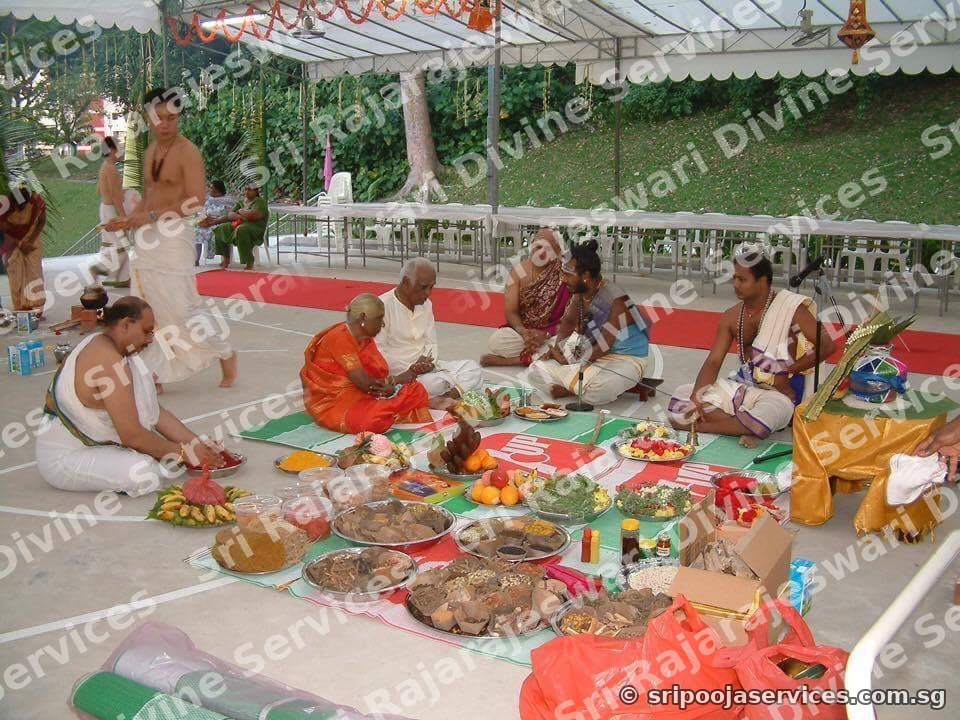
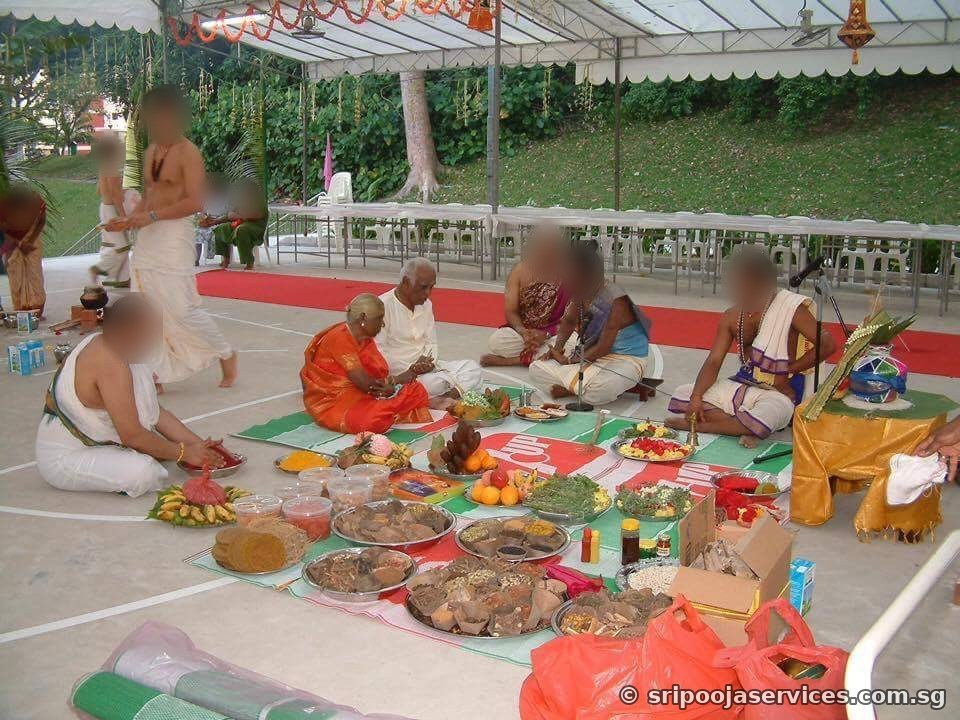
Seva: four event photos in order, faces blurred, privacy note
Claude-Session: https://claude.ai/code/session_01XfYPcg9wYB2SYewJi32MZp

diff --git a/community.htm b/community.htm
@@ -15,7 +15,7 @@
 <link rel="preconnect" href="https://fonts.googleapis.com">
 <link rel="preconnect" href="https://fonts.gstatic.com" crossorigin>
 <link href="https://fonts.googleapis.com/css2?family=Cormorant+Garamond:ital,wght@0,500;0,600;0,700;1,500;1,600&family=Tiro+Devanagari+Hindi&family=Noto+Serif+Devanagari:wght@700;900&family=Inter:wght@400;500;600;700;800&display=swap" rel="stylesheet">
-<link rel="stylesheet" href="style.css?v=152">
+<link rel="stylesheet" href="style.css?v=153">
 </head>
 <body><svg width="0" height="0" style="position:absolute;width:0;height:0;overflow:hidden" aria-hidden="true"><defs>
 <linearGradient id="sr-g" x1="0" y1="0" x2="1" y2="1"><stop offset="0" stop-color="#fff9dc"/><stop offset=".14" stop-color="#ffe17a"/><stop offset=".3" stop-color="#d79a18"/><stop offset=".42" stop-color="#8f5c06"/><stop offset=".54" stop-color="#f3c446"/><stop offset=".64" stop-color="#fff2b0"/><stop offset=".78" stop-color="#d9a024"/><stop offset=".9" stop-color="#9a6408"/><stop offset="1" stop-color="#f0c040"/></linearGradient>
@@ -164,10 +164,13 @@
 </div></section>
 <section><div class="wrap">
   <div class="community">
-        <div class="comm-grid">
-      <figure><img src="image/community_homam.jpg?v=2" alt="Community Navarathri celebration in Ang Mo Kio" width="960" height="720" loading="lazy"></figure>
-      <figure><img src="image/community_suvaasini.jpg?v=2" alt="Prayers at the community Navarathri celebration" width="540" height="720" loading="lazy"></figure>
+        <div class="comm-grid comm-grid4">
+      <figure><img src="image/community_token.jpg" alt="Grassroots advisor presenting tokens of appreciation at the community Navarathri celebration" width="1200" height="900" loading="lazy"></figure>
+      <figure><img src="image/community_meal.jpg" alt="Guests sharing a vegetarian meal at the community Navarathri celebration" width="1200" height="900" loading="lazy"></figure>
+      <figure><img src="image/community_homam.jpg?v=3" alt="Homam on the second day of the community Navarathri celebration" width="960" height="720" loading="lazy"></figure>
+      <figure><img src="image/community_suvaasini.jpg?v=3" alt="Suvaasini Pooja at the community Navarathri celebration" width="540" height="720" loading="lazy"></figure>
     </div>
+    <p class="blur-note">Faces have been blurred to protect privacy.</p>
     <p>With the blessings of the former grassroots advisor for Kebun Baru, we held a two-day community Navarathri celebration in Ang Mo Kio. Families of different races and from all walks of life came together to worship the Divine Mother and take part in the event.</p>
     <p>On the eve of the event, essential groceries were delivered personally to families in need in the neighbourhood, and they were invited to join us at the venue the next day for a meal. On that day, we were happy that our grassroots advisor joined us for the prayers, and he was kind enough to accept our request to present a token of appreciation to these families.</p>
     <p>Later, a two-day Sahasra Modaka Sri Maha Ganapati Homam was held on Vinayaka Shashti (Pillayar Nonbu), a most auspicious day for Sri Ganapati, made possible by a group of like-minded well-wishers. Seniors from a home in the community were invited to join us and take part.</p>

diff --git a/bagavathi-seva.htm b/bagavathi-seva.htm
@@ -15,7 +15,7 @@
 <link rel="preconnect" href="https://fonts.googleapis.com">
 <link rel="preconnect" href="https://fonts.gstatic.com" crossorigin>
 <link href="https://fonts.googleapis.com/css2?family=Cormorant+Garamond:ital,wght@0,500;0,600;0,700;1,500;1,600&family=Tiro+Devanagari+Hindi&family=Noto+Serif+Devanagari:wght@700;900&family=Inter:wght@400;500;600;700;800&display=swap" rel="stylesheet">
-<link rel="stylesheet" href="style.css?v=152">
+<link rel="stylesheet" href="style.css?v=153">
 </head>
 <body><svg width="0" height="0" style="position:absolute;width:0;height:0;overflow:hidden" aria-hidden="true"><defs>
 <linearGradient id="sr-g" x1="0" y1="0" x2="1" y2="1"><stop offset="0" stop-color="#fff9dc"/><stop offset=".14" stop-color="#ffe17a"/><stop offset=".3" stop-color="#d79a18"/><stop offset=".42" stop-color="#8f5c06"/><stop offset=".54" stop-color="#f3c446"/><stop offset=".64" stop-color="#fff2b0"/><stop offset=".78" stop-color="#d9a024"/><stop offset=".9" stop-color="#9a6408"/><stop offset="1" stop-color="#f0c040"/></linearGradient>

diff --git a/business-inauguration-pooja.htm b/business-inauguration-pooja.htm
@@ -15,7 +15,7 @@
 <link rel="preconnect" href="https://fonts.googleapis.com">
 <link rel="preconnect" href="https://fonts.gstatic.com" crossorigin>
 <link href="https://fonts.googleapis.com/css2?family=Cormorant+Garamond:ital,wght@0,500;0,600;0,700;1,500;1,600&family=Tiro+Devanagari+Hindi&family=Noto+Serif+Devanagari:wght@700;900&family=Inter:wght@400;500;600;700;800&display=swap" rel="stylesheet">
-<link rel="stylesheet" href="style.css?v=152">
+<link rel="stylesheet" href="style.css?v=153">
 </head>
 <body><svg width="0" height="0" style="position:absolute;width:0;height:0;overflow:hidden" aria-hidden="true"><defs>
 <linearGradient id="sr-g" x1="0" y1="0" x2="1" y2="1"><stop offset="0" stop-color="#fff9dc"/><stop offset=".14" stop-color="#ffe17a"/><stop offset=".3" stop-color="#d79a18"/><stop offset=".42" stop-color="#8f5c06"/><stop offset=".54" stop-color="#f3c446"/><stop offset=".64" stop-color="#fff2b0"/><stop offset=".78" stop-color="#d9a024"/><stop offset=".9" stop-color="#9a6408"/><stop offset="1" stop-color="#f0c040"/></linearGradient>

diff --git a/contact.htm b/contact.htm
@@ -15,7 +15,7 @@
 <link rel="preconnect" href="https://fonts.googleapis.com">
 <link rel="preconnect" href="https://fonts.gstatic.com" crossorigin>
 <link href="https://fonts.googleapis.com/css2?family=Cormorant+Garamond:ital,wght@0,500;0,600;0,700;1,500;1,600&family=Tiro+Devanagari+Hindi&family=Noto+Serif+Devanagari:wght@700;900&family=Inter:wght@400;500;600;700;800&display=swap" rel="stylesheet">
-<link rel="stylesheet" href="style.css?v=152">
+<link rel="stylesheet" href="style.css?v=153">
 </head>
 <body><svg width="0" height="0" style="position:absolute;width:0;height:0;overflow:hidden" aria-hidden="true"><defs>
 <linearGradient id="sr-g" x1="0" y1="0" x2="1" y2="1"><stop offset="0" stop-color="#fff9dc"/><stop offset=".14" stop-color="#ffe17a"/><stop offset=".3" stop-color="#d79a18"/><stop offset=".42" stop-color="#8f5c06"/><stop offset=".54" stop-color="#f3c446"/><stop offset=".64" stop-color="#fff2b0"/><stop offset=".78" stop-color="#d9a024"/><stop offset=".9" stop-color="#9a6408"/><stop offset="1" stop-color="#f0c040"/></linearGradient>

diff --git a/extra_mile.htm b/extra_mile.htm
@@ -15,7 +15,7 @@
 <link rel="preconnect" href="https://fonts.googleapis.com">
 <link rel="preconnect" href="https://fonts.gstatic.com" crossorigin>
 <link href="https://fonts.googleapis.com/css2?family=Cormorant+Garamond:ital,wght@0,500;0,600;0,700;1,500;1,600&family=Tiro+Devanagari+Hindi&family=Noto+Serif+Devanagari:wght@700;900&family=Inter:wght@400;500;600;700;800&display=swap" rel="stylesheet">
-<link rel="stylesheet" href="style.css?v=152">
+<link rel="stylesheet" href="style.css?v=153">
 </head>
 <body><svg width="0" height="0" style="position:absolute;width:0;height:0;overflow:hidden" aria-hidden="true"><defs>
 <linearGradient id="sr-g" x1="0" y1="0" x2="1" y2="1"><stop offset="0" stop-color="#fff9dc"/><stop offset=".14" stop-color="#ffe17a"/><stop offset=".3" stop-color="#d79a18"/><stop offset=".42" stop-color="#8f5c06"/><stop offset=".54" stop-color="#f3c446"/><stop offset=".64" stop-color="#fff2b0"/><stop offset=".78" stop-color="#d9a024"/><stop offset=".9" stop-color="#9a6408"/><stop offset="1" stop-color="#f0c040"/></linearGradient>

diff --git a/faq.htm b/faq.htm
@@ -16,7 +16,7 @@
 <link rel="preconnect" href="https://fonts.googleapis.com">
 <link rel="preconnect" href="https://fonts.gstatic.com" crossorigin>
 <link href="https://fonts.googleapis.com/css2?family=Cormorant+Garamond:ital,wght@0,500;0,600;0,700;1,500;1,600&family=Tiro+Devanagari+Hindi&family=Noto+Serif+Devanagari:wght@700;900&family=Inter:wght@400;500;600;700;800&display=swap" rel="stylesheet">
-<link rel="stylesheet" href="style.css?v=152">
+<link rel="stylesheet" href="style.css?v=153">
 </head>
 <body><svg width="0" height="0" style="position:absolute;width:0;height:0;overflow:hidden" aria-hidden="true"><defs>
 <linearGradient id="sr-g" x1="0" y1="0" x2="1" y2="1"><stop offset="0" stop-color="#fff9dc"/><stop offset=".14" stop-color="#ffe17a"/><stop offset=".3" stop-color="#d79a18"/><stop offset=".42" stop-color="#8f5c06"/><stop offset=".54" stop-color="#f3c446"/><stop offset=".64" stop-color="#fff2b0"/><stop offset=".78" stop-color="#d9a024"/><stop offset=".9" stop-color="#9a6408"/><stop offset="1" stop-color="#f0c040"/></linearGradient>

diff --git a/ganapati-homam.htm b/ganapati-homam.htm
@@ -15,7 +15,7 @@
 <link rel="preconnect" href="https://fonts.googleapis.com">
 <link rel="preconnect" href="https://fonts.gstatic.com" crossorigin>
 <link href="https://fonts.googleapis.com/css2?family=Cormorant+Garamond:ital,wght@0,500;0,600;0,700;1,500;1,600&family=Tiro+Devanagari+Hindi&family=Noto+Serif+Devanagari:wght@700;900&family=Inter:wght@400;500;600;700;800&display=swap" rel="stylesheet">
-<link rel="stylesheet" href="style.css?v=152">
+<link rel="stylesheet" href="style.css?v=153">
 </head>
 <body><svg width="0" height="0" style="position:absolute;width:0;height:0;overflow:hidden" aria-hidden="true"><defs>
 <linearGradient id="sr-g" x1="0" y1="0" x2="1" y2="1"><stop offset="0" stop-color="#fff9dc"/><stop offset=".14" stop-color="#ffe17a"/><stop offset=".3" stop-color="#d79a18"/><stop offset=".42" stop-color="#8f5c06"/><stop offset=".54" stop-color="#f3c446"/><stop offset=".64" stop-color="#fff2b0"/><stop offset=".78" stop-color="#d9a024"/><stop offset=".9" stop-color="#9a6408"/><stop offset="1" stop-color="#f0c040"/></linearGradient>

diff --git a/graha-pravesam.htm b/graha-pravesam.htm
@@ -15,7 +15,7 @@
 <link rel="preconnect" href="https://fonts.googleapis.com">
 <link rel="preconnect" href="https://fonts.gstatic.com" crossorigin>
 <link href="https://fonts.googleapis.com/css2?family=Cormorant+Garamond:ital,wght@0,500;0,600;0,700;1,500;1,600&family=Tiro+Devanagari+Hindi&family=Noto+Serif+Devanagari:wght@700;900&family=Inter:wght@400;500;600;700;800&display=swap" rel="stylesheet">
-<link rel="stylesheet" href="style.css?v=152">
+<link rel="stylesheet" href="style.css?v=153">
 </head>
 <body><svg width="0" height="0" style="position:absolute;width:0;height:0;overflow:hidden" aria-hidden="true"><defs>
 <linearGradient id="sr-g" x1="0" y1="0" x2="1" y2="1"><stop offset="0" stop-color="#fff9dc"/><stop offset=".14" stop-color="#ffe17a"/><stop offset=".3" stop-color="#d79a18"/><stop offset=".42" stop-color="#8f5c06"/><stop offset=".54" stop-color="#f3c446"/><stop offset=".64" stop-color="#fff2b0"/><stop offset=".78" stop-color="#d9a024"/><stop offset=".9" stop-color="#9a6408"/><stop offset="1" stop-color="#f0c040"/></linearGradient>

diff --git a/index.htm b/index.htm
@@ -17,7 +17,7 @@
 <link rel="preconnect" href="https://fonts.googleapis.com">
 <link rel="preconnect" href="https://fonts.gstatic.com" crossorigin>
 <link href="https://fonts.googleapis.com/css2?family=Cormorant+Garamond:ital,wght@0,500;0,600;0,700;1,500;1,600&family=Tiro+Devanagari+Hindi&family=Noto+Serif+Devanagari:wght@700;900&family=Inter:wght@400;500;600;700;800&display=swap" rel="stylesheet">
-<link rel="stylesheet" href="style.css?v=152">
+<link rel="stylesheet" href="style.css?v=153">
 </head>
 <body><svg width="0" height="0" style="position:absolute;width:0;height:0;overflow:hidden" aria-hidden="true"><defs>
 <linearGradient id="sr-g" x1="0" y1="0" x2="1" y2="1"><stop offset="0" stop-color="#fff9dc"/><stop offset=".14" stop-color="#ffe17a"/><stop offset=".3" stop-color="#d79a18"/><stop offset=".42" stop-color="#8f5c06"/><stop offset=".54" stop-color="#f3c446"/><stop offset=".64" stop-color="#fff2b0"/><stop offset=".78" stop-color="#d9a024"/><stop offset=".9" stop-color="#9a6408"/><stop offset="1" stop-color="#f0c040"/></linearGradient>

diff --git a/index.html b/index.html
@@ -17,7 +17,7 @@
 <link rel="preconnect" href="https://fonts.googleapis.com">
 <link rel="preconnect" href="https://fonts.gstatic.com" crossorigin>
 <link href="https://fonts.googleapis.com/css2?family=Cormorant+Garamond:ital,wght@0,500;0,600;0,700;1,500;1,600&family=Tiro+Devanagari+Hindi&family=Noto+Serif+Devanagari:wght@700;900&family=Inter:wght@400;500;600;700;800&display=swap" rel="stylesheet">
-<link rel="stylesheet" href="style.css?v=152">
+<link rel="stylesheet" href="style.css?v=153">
 </head>
 <body><svg width="0" height="0" style="position:absolute;width:0;height:0;overflow:hidden" aria-hidden="true"><defs>
 <linearGradient id="sr-g" x1="0" y1="0" x2="1" y2="1"><stop offset="0" stop-color="#fff9dc"/><stop offset=".14" stop-color="#ffe17a"/><stop offset=".3" stop-color="#d79a18"/><stop offset=".42" stop-color="#8f5c06"/><stop offset=".54" stop-color="#f3c446"/><stop offset=".64" stop-color="#fff2b0"/><stop offset=".78" stop-color="#d9a024"/><stop offset=".9" stop-color="#9a6408"/><stop offset="1" stop-color="#f0c040"/></linearGradient>

diff --git a/mrityunjaya-homam.htm b/mrityunjaya-homam.htm
@@ -15,7 +15,7 @@
 <link rel="preconnect" href="https://fonts.googleapis.com">
 <link rel="preconnect" href="https://fonts.gstatic.com" crossorigin>
 <link href="https://fonts.googleapis.com/css2?family=Cormorant+Garamond:ital,wght@0,500;0,600;0,700;1,500;1,600&family=Tiro+Devanagari+Hindi&family=Noto+Serif+Devanagari:wght@700;900&family=Inter:wght@400;500;600;700;800&display=swap" rel="stylesheet">
-<link rel="stylesheet" href="style.css?v=152">
+<link rel="stylesheet" href="style.css?v=153">
 </head>
 <body><svg width="0" height="0" style="position:absolute;width:0;height:0;overflow:hidden" aria-hidden="true"><defs>
 <linearGradient id="sr-g" x1="0" y1="0" x2="1" y2="1"><stop offset="0" stop-color="#fff9dc"/><stop offset=".14" stop-color="#ffe17a"/><stop offset=".3" stop-color="#d79a18"/><stop offset=".42" stop-color="#8f5c06"/><stop offset=".54" stop-color="#f3c446"/><stop offset=".64" stop-color="#fff2b0"/><stop offset=".78" stop-color="#d9a024"/><stop offset=".9" stop-color="#9a6408"/><stop offset="1" stop-color="#f0c040"/></linearGradient>

diff --git a/navagraha-shanti-homam.htm b/navagraha-shanti-homam.htm
@@ -15,7 +15,7 @@
 <link rel="preconnect" href="https://fonts.googleapis.com">
 <link rel="preconnect" href="https://fonts.gstatic.com" crossorigin>
 <link href="https://fonts.googleapis.com/css2?family=Cormorant+Garamond:ital,wght@0,500;0,600;0,700;1,500;1,600&family=Tiro+Devanagari+Hindi&family=Noto+Serif+Devanagari:wght@700;900&family=Inter:wght@400;500;600;700;800&display=swap" rel="stylesheet">
-<link rel="stylesheet" href="style.css?v=152">
+<link rel="stylesheet" href="style.css?v=153">
 </head>
 <body><svg width="0" height="0" style="position:absolute;width:0;height:0;overflow:hidden" aria-hidden="true"><defs>
 <linearGradient id="sr-g" x1="0" y1="0" x2="1" y2="1"><stop offset="0" stop-color="#fff9dc"/><stop offset=".14" stop-color="#ffe17a"/><stop offset=".3" stop-color="#d79a18"/><stop offset=".42" stop-color="#8f5c06"/><stop offset=".54" stop-color="#f3c446"/><stop offset=".64" stop-color="#fff2b0"/><stop offset=".78" stop-color="#d9a024"/><stop offset=".9" stop-color="#9a6408"/><stop offset="1" stop-color="#f0c040"/></linearGradient>
